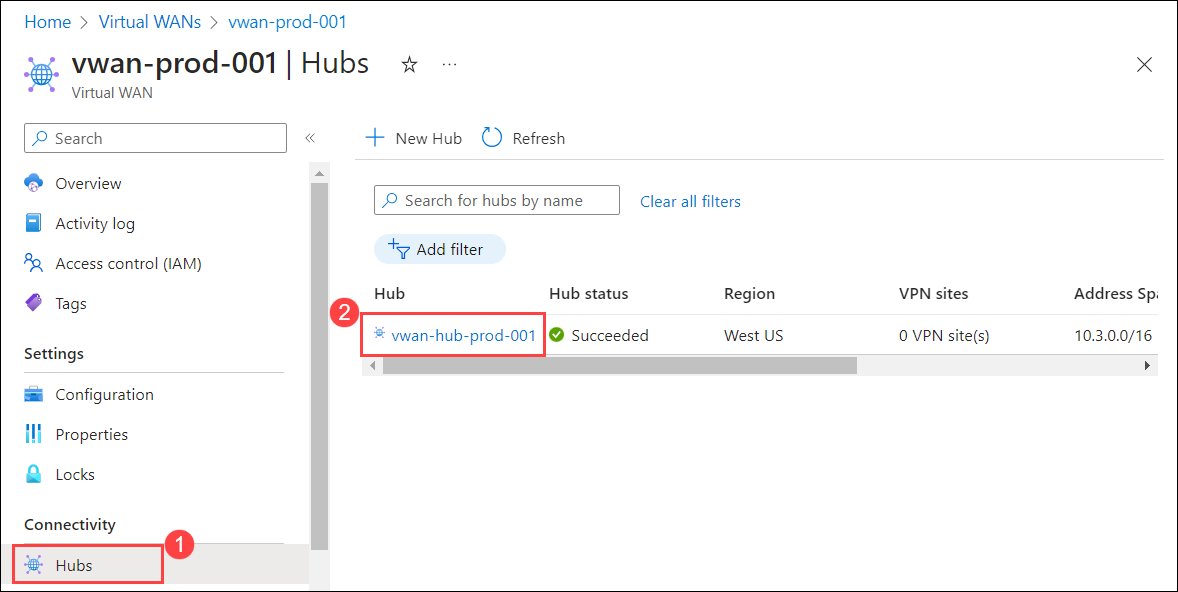
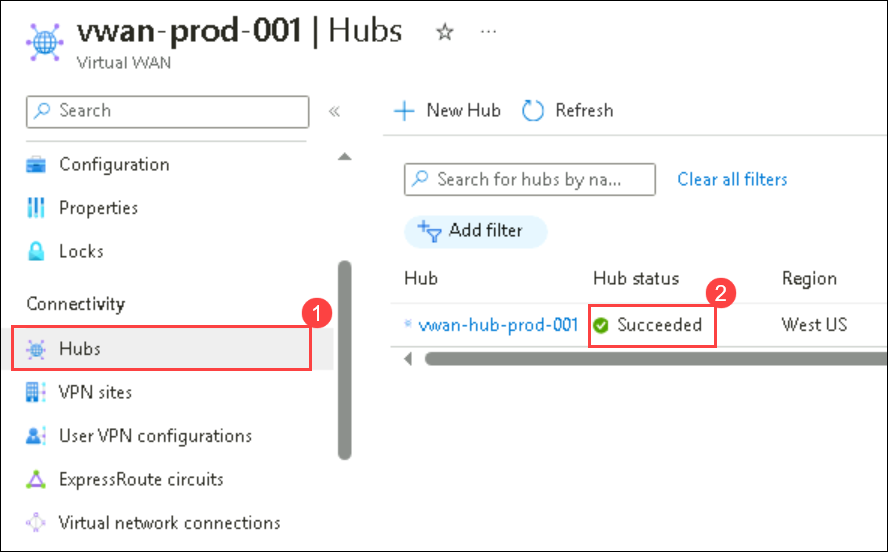
Updated execise 03  lab guide Created exercise-04 labguide

diff --git a/Labfiles-101/04.Provision your application.md b/Labfiles-101/04.Provision your application.md
@@ -1,0 +1,172 @@
+## Task 1: Create and deploy virtual machine 
+ 
+In this task, you will create a virtual machine in the Azure portal.
+
+1. In the Search bar of the Azure portal, type Virtual machines, then select **Virtual machines**.
+
+   ![Create resource](../media/04-01.png)
+
+1. Click **+Create** and choose **+Azure Virtual machine** from the drop down.
+
+   ![Create resource](../media/04-02.png)
+
+1. On the **Basics** tab, fill in the following information (leave the defaults for everything else):
+
+    | Settings | Values |
+    |  -- | -- |
+    | Subscription | **Use default supplied** |
+    | Resource group | **RG-01-<inject key="DeploymentID" enableCopy="false"/>**|
+    | Virtual machine name | **vm-prod-003** |
+    | Region | **(US) East US**|
+    | Availability options | No infrastructure redundancy options required|
+    | Image | **Windows Server 2019 Datacenter - Gen2**|
+
+    ![Create resource](../media/04-03.png)
+
+    | Size | **Standard D2s v3**|
+    | Username | **azureuser** |
+    | Password (type in carefully!) | **Pa$$w0rd1234**|
+
+     ![Create resource](../media/04-04.png)
+       
+1. Switch to the Networking (1) tab, and in its **virtual network** section, select **create new (2)** and click **OK (4)** :
+
+    | Settings | Values |
+    | -- | -- |
+    | Name | **vm-prod-003-vnet (3)**|
+
+    ![Create resource](../media/04-05.png)
+
+1. Leave the remaining values on the defaults and then click the **Review + create** button at the bottom of the page.
+
+1. Once Validation is passed click the **Create** button. It can take anywhere from five to seven minutes to deploy the virtual machine.
+
+1. You will receive updates on the deployment page and via the **Notifications** area (the bell icon in the top menu bar).
+
+1. Click on bell icon from the upper blue toolbar and select 'Go to resource' when your deployment has succeeded. 
+
+    **Note**: You could also use the **Go to resource** link on the deployment page 
+
+1. On the virtual machine **Overview** blade, click **Connect** button and choose **RDP** from the drop down.
+
+    ![Screenshot of the virtual machine properties with the Connect button highlighted.](../media/04-06.png)
+
+    **Note**: The following directions tell you how to connect to your VM from a Windows computer. On a Mac, you need an RDP client such as this Remote Desktop Client from the Mac App Store and on a Linux computer you can use an open-source RDP client.
+
+1. On the **Connect (1)** page, click Select under **Native RDP (2)** and click **Download RDP File (3)**. A file will download on the bottom left of your screen.
+
+   ![Screenshot of the virtual machine properties with the Connect button highlighted.](../media/04-07.png)
+
+1. **Open** the downloaded RDP file (located on the bottom left of your lab machine) and click **Connect** when prompted. 
+
+    ![Screenshot of the virtual machine properties with the Connect button highlighted. ](../media/04-08.png)
+
+1. In the **Windows Security** window, sign in using the Admin Credentials you used when creating your VM **azureuser** and the password **Pa$$w0rd1234**. 
+
+    ![Screenshot of the virtual machine properties with the Connect button highlighted. ](../media/04-09.png)
+
+1. You may receive a warning certificate during the sign-in process. Click **Yes** or to create the connection and connect to your deployed VM. You should connect successfully.
+
+    ![Screenshot of the Certificate warning dialogue informing the user of an untrusted certificate, with the Yes button highlighted. ](../media/04-10.png)
+
+## Task 2: Test the RDP connection 
+
+In this task, you will connect to the virtual machine and install a routing role.
+
+1. Once have the Server Manager dashboard in place, click on **Add roles and features**.
+
+     ![Create Resource](../media/Picture1.jpg)
+
+1. On the **Before You Begin (1)** page, Leave everything as **default** and click on **Next (2)**.
+
+      ![Create Resource](../media/Picture2.jpg)
+
+1. On the **Installation Type** and **Server Selection** page, leave everything as **default** and click on **Next**.
+
+1. On the **Server Roles (1)** page choose the option of **Remote Access (2)** and click on **Next (3)**.
+
+     ![Create Resource](../media/Picture3.jpg)
+
+1. On the **Add Roles and Features Wizard** page, click on **Add Features**.
+
+     ![Create Resource](../media/Picture4.jpg)
+
+1. On the **Features**, **Remote Access** page Leave everything as **default** and click on **Next**.
+
+1. On t.he **Role Services (1)** page, In terms of the role services, choose **DirectAccess and VPN (2)** and **Routing (2)** and click on **Next (3)**
+
+      ![Create Resource](../media/Picture5.jpg)
+
+1. On the **Web Server Roles**, **Role Services** page, leave everything as **default** and click on **Next**.     
+
+1. On the **Confirmation (1)** page click on **Install (2)**. 
+
+      ![Create Resource](../media/Picture6.jpg)
+
+   >**Note**: Wait until feature get installed.
+
+## Create a local gateway.
+     
+1. In the search box, type **Local Network gateway (1)** and select **Local Network gateway (2)** to open it.
+
+     ![Create Resource](../media/04-11.png)
+
+     
+1. On the **Local network gateway** page, click on **Create**. 
+
+    ![Create Resource](../media/04-12.png)
+
+1. On the **Basic** page, fill in the following information (leave the defaults for everything else):
+
+    | Settings | Values |
+    |  -- | -- |
+    | Subscription | **Use default supplied** |
+    | Resource group | **RG-01-<inject key="DeploymentID" enableCopy="false"/>**|
+    | Region | **(US) West US**|
+    | Name | **lng-prod-001** |
+    | IP address | Public IP of vm-prod-003 |
+    | Address space | **10.4.0.0/16**|
+
+    ![Create Resource](../media/04-13.png)
+
+1. Leave the remaining values on the defaults and then click the **Review + create** button at the bottom of the page.
+
+1. Once Validation is passed click the **Create** button. It can take anywhere from five to seven minutes to deploy the virtual machine.
+  
+   ![Create Resource](../media/04-14.png)
+   
+1. Go back in the virtual machine, click on **Notification (1)**, then click on **Open the Getting Started Wizard**.
+
+    ![Create Resource](../media/Picture8.jpg)
+
+1. On the **Configure Remote Access** page, Select **Deploy VPN only**.
+
+    ![Create Resource](../media/Picture9.jpg)
+
+1. Right-Click on the **vm-prod-003(local) (1)** then select **Configure and Enable Routing and Remote Access (2)**
+
+   ![Create Resource](../media/Picture10.jpg)
+
+1. On the **Routing and Remote Access Server Setup Wizard**, Click **Next**.
+
+   ![Create Resource](../media/Picture11.jpg)
+
+1. On the **Configuration** blade, Select **Custom configuration**.
+ 
+   ![Create Resource](../media/Picture12.jpg)
+
+1. On the **Custom Configuration** blade, Select **VPN access** and **LAN routing** then click on **Next**
+
+   ![Create Resource](../media/Picture13.jpg)
+
+1. On the **Completing the Routing and Remote Access Server Setup Wizard**, Select **Finish**.
+
+   ![Create Resource](../media/Picture14.jpg)
+
+1. On the **Routing and Remote Access** Pop-up, click on **Start service**.
+
+    ![Create Resource](../media/Picture15.jpg)
+
+1. We have completely set up when it comes onto routing, on our Windows Server, on vm-prod-003. We also have local network gateway in place.
+
+   ![Create Resource](../media/Picture16.jpg)

diff --git a/Labfiles-101/03.Provision your Azure Network Topology.md b/Labfiles-101/03.Provision your Azure Network Topology.md
@@ -58,7 +58,7 @@ In this task, you will create a virtual network.
 
    ![](../media/10.png)
 
-1. From upper left corner Azure Portal select the **menu (1)** icon with three lines as highlighted below and then select **+ Create a resource (2)**.
+1. Go back to the home page and from upper left corner Azure Portal select the **menu (1)** icon with three lines as highlighted below and then select **+ Create a resource (2)**.
 
       ![Create resource](../media/01.png)
      
@@ -196,7 +196,7 @@ In this task, you will create a virtual network.
 
     ![](../media/26.png)
 
-12. On the **vwan-prod-001** page, select **Hubs(1)** under **Connectivity** blade and you can notice the status of **vwan-hub-prod-001(2)** created is in **Succeeded** state.
+12. On the **vwan-prod-001** page, select **Hubs(1)** under **Connectivity** blade and you can notice the status of **vwan-hub-prod-001** created is in **Succeeded(2)** state.
 
      ![](../media/27.png)
 
